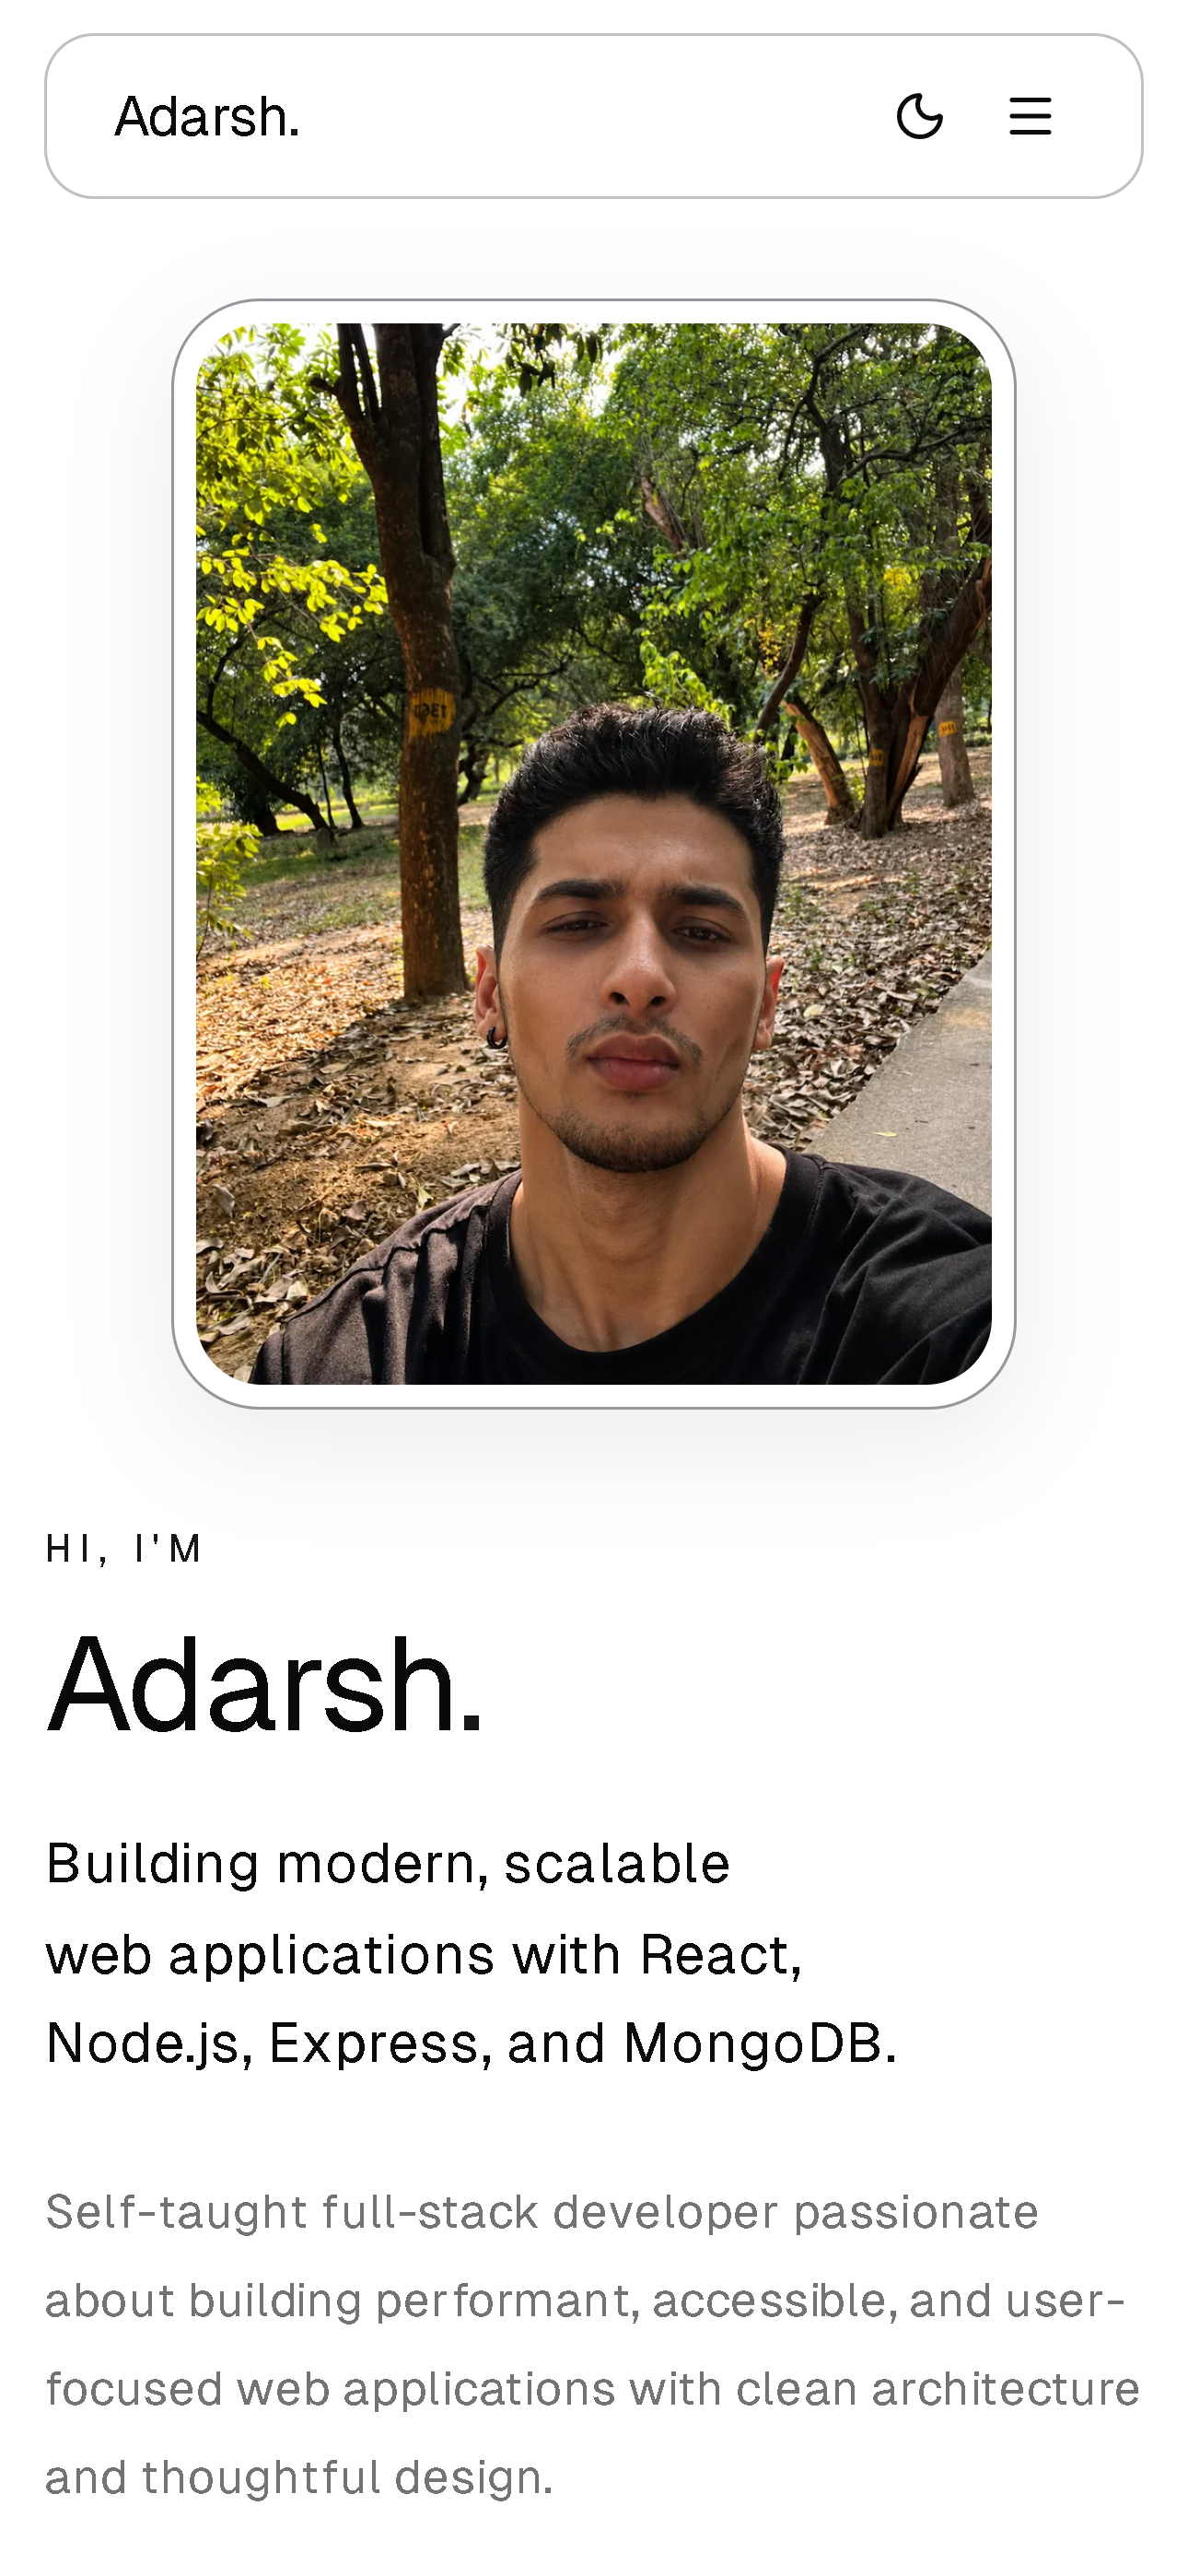
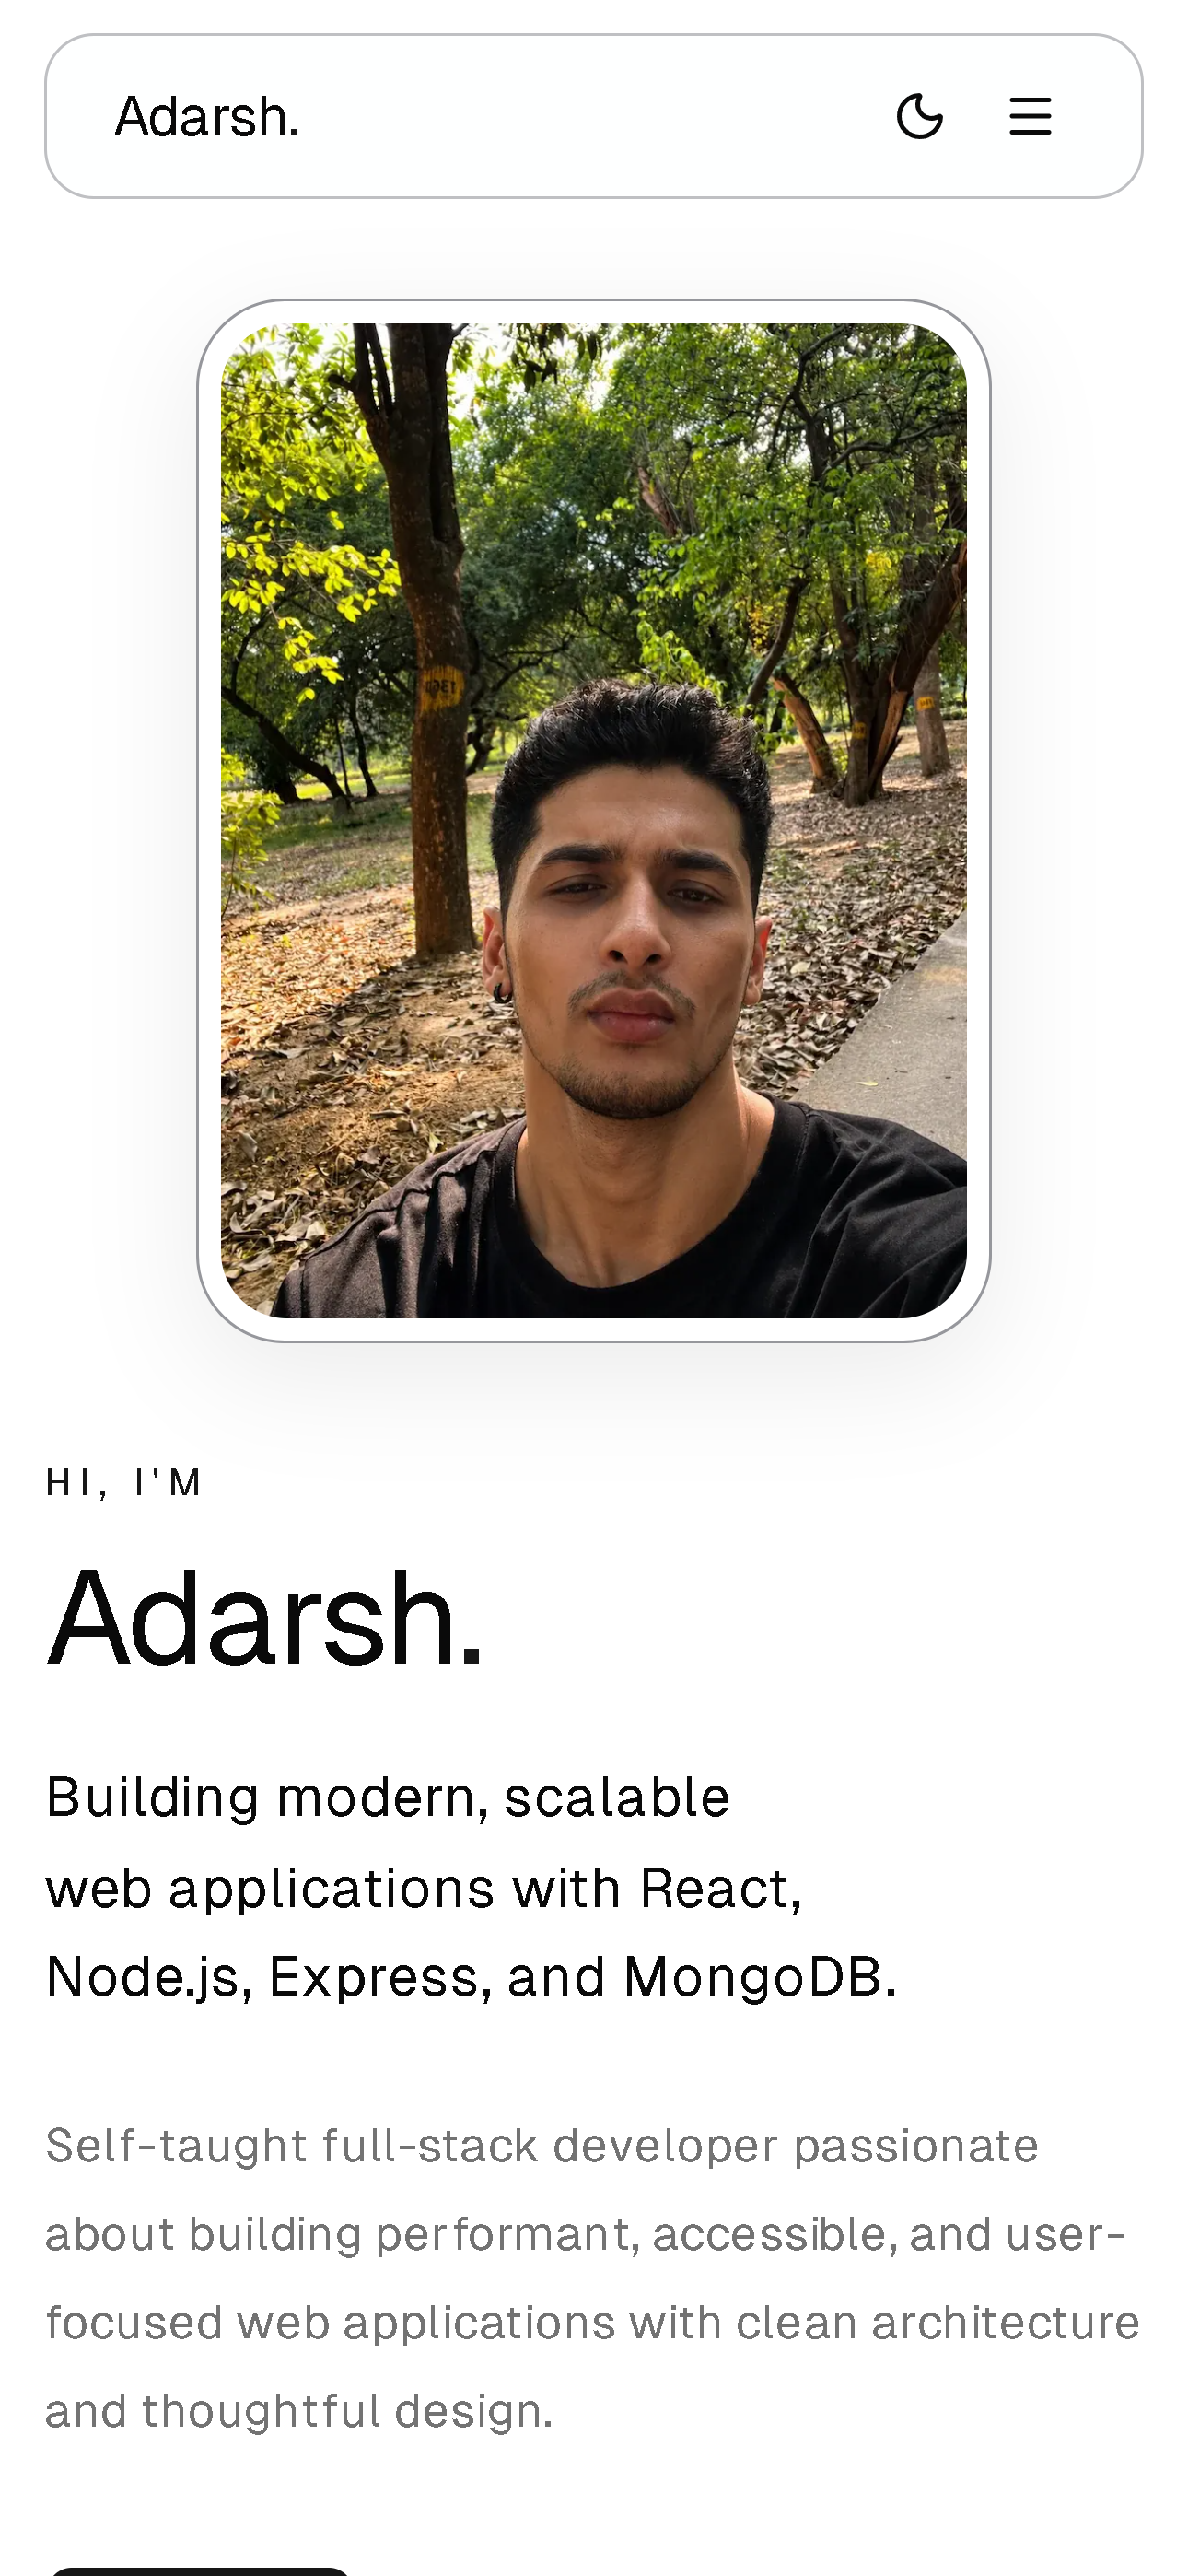
feat: update screenshots and enhance About section in README

Changed region(s): [[0.155, 0.1245, 0.8372, 0.5601], [0.031, 0.5912, 0.9612, 0.9646], [0.031, 0.9957, 0.3101, 1.0]]

diff --git a/src/components/sections/About.jsx b/src/components/sections/About.jsx
@@ -23,11 +23,10 @@ const About = () => {
             <p>
               I didn't start my journey in computer science. While pursuing a{" "}
               <span className="font-medium text-foreground">BBA</span>, I was
-              searching for a direction and discovered software development
-              almost by chance. What initially felt like learning an entirely
-              new language gradually turned into something I genuinely enjoyed.
-              The more I built, the more curious I became, and that curiosity
-              eventually grew into a passion for creating software.
+              trying to figure out what I wanted to do and ended up discovering
+              software development almost by accident. I started building small
+              projects out of curiosity, and somewhere along the way it became
+              something I genuinely enjoyed.
             </p>
 
             <p>
@@ -35,26 +34,21 @@ const About = () => {
               <span className="font-medium text-foreground">
                 self-taught full-stack developer
               </span>{" "}
-              who enjoys building complete web applications from frontend
-              interfaces to backend systems. I care about writing clean,
-              maintainable code and creating software that is fast, accessible,
-              and enjoyable to use. Whether I'm designing polished user
-              interfaces, integrating APIs, structuring application
-              architecture, debugging complex issues, or learning a new
-              technology, I genuinely enjoy every part of the development
-              process.
+              who enjoys building web applications from the database to the
+              frontend. I like working across the stack, whether it's designing
+              APIs, building React interfaces, debugging problems, or improving
+              the way an application is structured. Every project teaches me
+              something new, and that's what keeps me coming back.
             </p>
 
             <p>
-              Beyond building projects, I continuously improve my
-              problem-solving skills through{" "}
+              Outside of building projects, I spend time solving{" "}
               <span className="font-medium text-foreground">
                 Data Structures & Algorithms
               </span>{" "}
-              while exploring modern technologies and development practices. My
-              goal is to keep learning, keep improving, and build software that
-              delivers meaningful value while growing into an engineer capable
-              of taking products from idea to production.
+              problems and learning more about backend architecture and system
+              design. My goal is simple: keep improving, build software I'm
+              proud of, and become a better engineer with every project.
             </p>
           </div>
         </div>

diff --git a/src/constants/siteConfig.js b/src/constants/siteConfig.js
@@ -5,12 +5,11 @@ export const SITE_CONFIG = {
   ogImage: "https://portfolio-xi-silk-b3un2mc452.vercel.app/portfolio-og.png",
 
   role: "Full-Stack Developer",
-
   headline:
-    "Building modern, scalable web applications with React, Node.js, Express, and MongoDB.",
+    "I build full-stack web applications with React, Node.js, Express, and MongoDB.",
 
   description:
-    "Self-taught full-stack developer passionate about building performant, accessible, and user-focused web applications with clean architecture and thoughtful design.",
+    "I enjoy building software from the database to the frontend and I'm always looking to improve with every project.",
 
   email: "[email redacted]",
 

diff --git a/README.md b/README.md
@@ -294,7 +294,7 @@ portfolio/
       <br><sub><b>Contact</b></sub>
     </td>
     <td align="center">
-      <img src="src/assets/images/screenshots/desktop/desktop-darkMode.png" alt="Dark Mode" width="100%">
+      <img src="src/assets/images/screenshots/desktop/desktop-dark-mode.png" alt="Dark Mode" width="100%">
       <br><sub><b>Dark Mode</b></sub>
     </td>
   </tr>
@@ -340,7 +340,7 @@ portfolio/
 
   <tr>
     <td align="center" colspan="2">
-      <img src="src/assets/images/screenshots/mobile/mobile-darkMode.png" alt="Dark Mode" width="50%">
+      <img src="src/assets/images/screenshots/mobile/mobile-dark-mode.png" alt="Dark Mode" width="50%">
       <br><sub><b>Dark Mode</b></sub>
     </td>
   </tr>